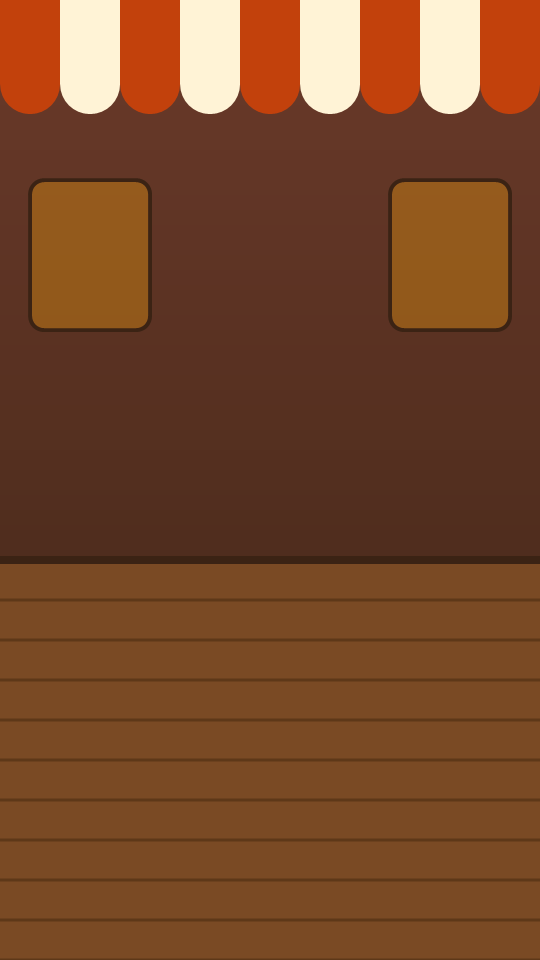
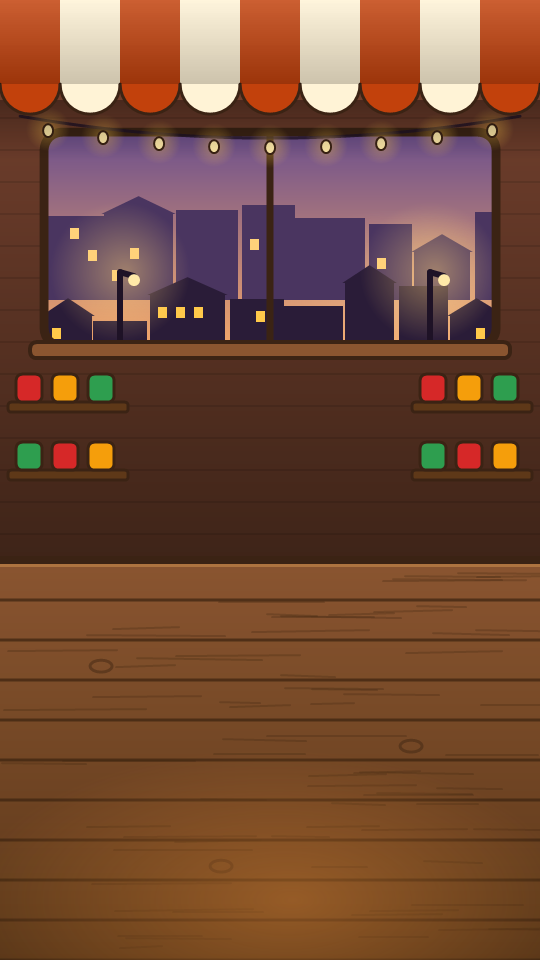
Q-06d: фон будки і вулиці кодом (bg_bar, bg_menu), тести, реєстр

diff --git a/Assets/_Project/Tests/EditMode/BackgroundTests.cs b/Assets/_Project/Tests/EditMode/BackgroundTests.cs
@@ -1,0 +1,96 @@
+using System.Collections.Generic;
+using System.IO;
+using NUnit.Framework;
+using UnityEngine;
+
+namespace KebabStreet.Tests.EditMode
+{
+    /// <summary>
+    /// Q-06d: фони ігрового екрана й меню мають розмір 540x960, градієнт (не однотонні) і не знижують контраст:
+    /// центральна ігрова зона темна й рівна, щоб світлі значки й білий текст читалися (WCAG AA).
+    /// </summary>
+    public sealed class BackgroundTests
+    {
+        private static Texture2D Load(string name)
+        {
+            string path = Path.Combine(Application.dataPath, "_Project/Resources/Art", name + ".png");
+            Assert.IsTrue(File.Exists(path), "немає файла: " + path);
+            var tex = new Texture2D(2, 2, TextureFormat.RGBA32, false);
+            Assert.IsTrue(tex.LoadImage(File.ReadAllBytes(path)), "не читається PNG: " + name);
+            return tex;
+        }
+
+        private static float Lin(float c)
+        {
+            return c <= 0.04045f ? c / 12.92f : Mathf.Pow((c + 0.055f) / 1.055f, 2.4f);
+        }
+
+        private static float Luminance(Color c)
+        {
+            return (0.2126f * Lin(c.r)) + (0.7152f * Lin(c.g)) + (0.0722f * Lin(c.b));
+        }
+
+        private static void Zone(Texture2D t, int x0, int x1, int y0, int y1, out float mean, out float max)
+        {
+            float sum = 0f;
+            int n = 0;
+            max = 0f;
+            for (int x = x0; x < x1; x += 3)
+            {
+                for (int y = y0; y < y1; y += 3)
+                {
+                    float l = Luminance(t.GetPixel(x, y));
+                    sum += l;
+                    max = Mathf.Max(max, l);
+                    n++;
+                }
+            }
+
+            mean = sum / n;
+        }
+
+        [TestCase("bg_bar")]
+        [TestCase("bg_menu")]
+        public void Background_HasSizeAndRichGradient(string name)
+        {
+            Texture2D tex = Load(name);
+            Assert.AreEqual(540, tex.width, name);
+            Assert.AreEqual(960, tex.height, name);
+            var colors = new HashSet<Color32>();
+            Color32[] px = tex.GetPixels32();
+            for (int i = 0; i < px.Length; i += 7)
+            {
+                colors.Add(px[i]);
+            }
+
+            Assert.GreaterOrEqual(colors.Count, 500, name + ": фон майже однотонний");
+            Assert.AreEqual(255, tex.GetPixel(10, 10).a, name + ": фон має бути непрозорим");
+        }
+
+        [Test]
+        public void GameBackground_PlayZoneStaysDarkAndEven()
+        {
+            Texture2D tex = Load("bg_bar");
+            // Unity: y=0 унизу; ігрова зона (дошка, гриль) - нижня частина зображення.
+            Zone(tex, 135, 405, tex.height - 860, tex.height - 580, out float mean, out float max);
+            Assert.Less(max, 0.20f, "прилавок надто світлий: контраст значків/тексту впаде");
+            Assert.Greater(mean, 0.03f, "прилавок надто темний: глибини нема");
+            Assert.GreaterOrEqual((1f + 0.05f) / (max + 0.05f), 4.5f, "білий текст на найсвітлішому місці < AA");
+            // Вікно на вулицю світліше за прилавок (глибина), але лишається вище за ігрову зону.
+            Zone(tex, 60, 480, tex.height - 330, tex.height - 150, out float windowMean, out _);
+            Assert.Greater(windowMean, mean, "вікно має бути світлішим за прилавок");
+        }
+
+        [Test]
+        public void MenuBackground_CenterStaysDarkForMapAndText()
+        {
+            Texture2D tex = Load("bg_menu");
+            Zone(tex, 135, 405, tex.height - 700, tex.height - 300, out float mean, out _);
+            Assert.Less(mean, 0.10f, "центр меню надто світлий для кремового тексту");
+            // Небо вгорі темніше за обрій (градієнт знизу вгору).
+            float top = Luminance(tex.GetPixel(270, tex.height - 5));
+            float horizon = Luminance(tex.GetPixel(270, tex.height - 650));
+            Assert.Greater(horizon, top, "має бути світліший обрій");
+        }
+    }
+}

diff --git a/Assets/_Project/Game/Views/ArtLibrary.cs b/Assets/_Project/Game/Views/ArtLibrary.cs
@@ -26,6 +26,7 @@ namespace KebabStreet.Game
         public const string ThemePath = "Theme/kebab_theme";
 
         public const string Background = "bg_bar";
+        public const string MenuBackground = "bg_menu";
         public const string MeatRaw = "icon_meat_raw";
         public const string MeatCooking = "icon_meat_cooking";
         public const string MeatDone = "icon_meat_done";
@@ -44,7 +45,7 @@ namespace KebabStreet.Game
         /// <summary>Усі імена спрайтів (без .png); тест звіряє їх із файлами в Resources/Art і реєстром.</summary>
         public static readonly string[] AllNames =
         {
-            Background, MeatRaw, MeatCooking, MeatDone, MeatWarning, MeatBurnt,
+            Background, MenuBackground, MeatRaw, MeatCooking, MeatDone, MeatWarning, MeatBurnt,
             "ing_pita", "ing_meat", "ing_salad", "ing_onion", "ing_sauce_garlic", "ing_sauce_hot",
             HeartFull, HeartEmpty, Coin, StarFull, StarEmpty, Lock, Pause, Menu,
             "chr_olya", "chr_marko", "chr_hanna", Ali,

diff --git a/Assets/_Project/Game/Views/MenuController.cs b/Assets/_Project/Game/Views/MenuController.cs
@@ -95,6 +95,7 @@ namespace KebabStreet.Game
             _openedAt = UiMotion.Now;
             _lastNow = _openedAt;
             ILocalizer text = Context.Text;
+            ArtLibrary.Apply(Container, ArtLibrary.MenuBackground, true); // Q-06d: нічна вулиця й будка за картою.
             Container.style.justifyContent = Justify.FlexStart;
             Container.style.paddingTop = 40f;
             _entries = LevelProgress.Build(Context.Levels, Context.Profile.Data);

diff --git a/docs/tasks/Q-06d.md b/docs/tasks/Q-06d.md
@@ -18,3 +18,10 @@
 ### 2026-11-16 — Агент 0
 - Зроблено: картка. Q-06b злито (PR #75).
 - Наступний крок: ui-art-designer виконує; PR; QA.
+
+### 2026-11-16 — ui-art-designer (Sonnet)
+- Зроблено: фони — PNG зі скрипта `tools/art/generate_placeholder_art.ps1` (~100 рядків), 2 великі спрайти 540x960, без щокадрових перемальовувань. `bg_bar`: задня стіна з дошками, вікно на вечірню вулицю (небо-градієнт, 2 ряди будинків із світлими вікнами, 2 ліхтарі зі світінням), гірлянда лампочок, полиці з банками по боках, тент з тінню й об'ємом, прилавок з текстурою дерева (дошки, прожилки, сучки), тепле світло гриля знизу. `bg_menu` (новий, застосовано в MenuController через ArtLibrary.MenuBackground): нічне небо з зірками й місяцем, обрій з теплим світінням, 2 ряди силуетів будинків, ліхтарі, мала будка з гірляндою внизу; центр темний, карта рівнів не перекрита. Екран ріже боки (cover), важливе — по центру. Контраст: центральна зона прилавка лум. max 0.12 (білий текст >= 5.6:1), центр меню середня лум. 0.03.
+- Тести: новий BackgroundTests (розмір, >=500 кольорів, непрозорість, контраст зони гри, вікно світліше за прилавок, обрій світліший за небо в меню); ArtRegistry/AllNames оновлено; реєстри ASSET_REGISTRY.md і ASSET_REGISTER.md оновлено. Скрипт перегенеровано в тека-скретч, у проєкт скопійовано лише bg_bar.png і bg_menu.png (+.meta).
+- Стан: Unity локально нема — тести НЕ ЗАПУСКАЛИСЬ; перевірка CI. Огляд PNG зроблено очима; цифри контрасту пораховано PowerShell.
+- QB: QB-SHIFT-31 (атмосфера, фон нижчого контрасту; без руху — рух лампочок не робив), QB-MENU-02 (сцена локації з віньєткою; ефекту «життя» нема), QB-ALL-07 (немає великої пласкої площі). Не зроблено: анімація лампочок/пари на фоні; вивіска.
+- Наступний крок: CI, PR, QA; Агент 0 ставить на телефон, скриншот (L3).

diff --git a/docs/art/ASSET_REGISTRY.md b/docs/art/ASSET_REGISTRY.md
@@ -19,7 +19,8 @@
 ## Файли
 | Файл (Resources/Art/) | Що | Джерело / автор | Ліцензія | Комерційне використання | Атрибуція | Дата |
 |---|---|---|---|---|---|---|
-| `bg_bar.png` | Фон бару: стіна, смугастий тент, дерев'яний прилавок | власний код, tools/art/generate_placeholder_art.ps1 | Original | так | не потрібна | 2026-11-13 |
+| `bg_bar.png` | Фон бару (Q-06d): задня стіна, вікно на вечірню вулицю з будинками й ліхтарями, гірлянда, полиці, тент з тінню, дерев'яний прилавок з текстурою й теплим світлом гриля | власний код, tools/art/generate_placeholder_art.ps1 | Original | так | не потрібна | 2026-11-16 |
+| `bg_menu.png` | Фон меню (Q-06d): нічне небо, силуети будинків, ліхтарі, мала будка з гірляндою внизу | власний код, tools/art/generate_placeholder_art.ps1 | Original | так | не потрібна | 2026-11-16 |
 | `icon_meat_raw.png` | Гриль: сире м'ясо | власний код, tools/art/generate_placeholder_art.ps1 | Original | так | не потрібна | 2026-11-13 |
 | `icon_meat_cooking.png` | Гриль: м'ясо готується (пара) | власний код, tools/art/generate_placeholder_art.ps1 | Original | так | не потрібна | 2026-11-13 |
 | `icon_meat_done.png` | Гриль: готове (галочка) | власний код, tools/art/generate_placeholder_art.ps1 | Original | так | не потрібна | 2026-11-13 |

diff --git a/docs/design/ASSET_REGISTER.md b/docs/design/ASSET_REGISTER.md
@@ -24,7 +24,7 @@
 
 | Група | Файли | Джерело | Ліцензія | Дата |
 |---|---|---|---|---|
-| Фон | `bg_bar.png` | власний код | Original | 2026-11-13 |
+| Фон | `bg_bar.png` (Q-06d: вікно на вулицю, гірлянда, полиці, прилавок), `bg_menu.png` (нічна вулиця й будка) | власний код | Original | 2026-11-16 |
 | Стани м'яса | `icon_meat_raw/cooking/done/warning/burnt.png` | власний код | Original | 2026-11-13 |
 | Інгредієнти | `ing_pita/meat/salad/onion/sauce_garlic/sauce_hot.png` | власний код | Original | 2026-11-13 |
 | HUD-значки | `icon_heart_full/empty`, `icon_coin`, `icon_star_full/empty`, `icon_lock`, `icon_pause`, `icon_menu` | власний код | Original | 2026-11-13 |
